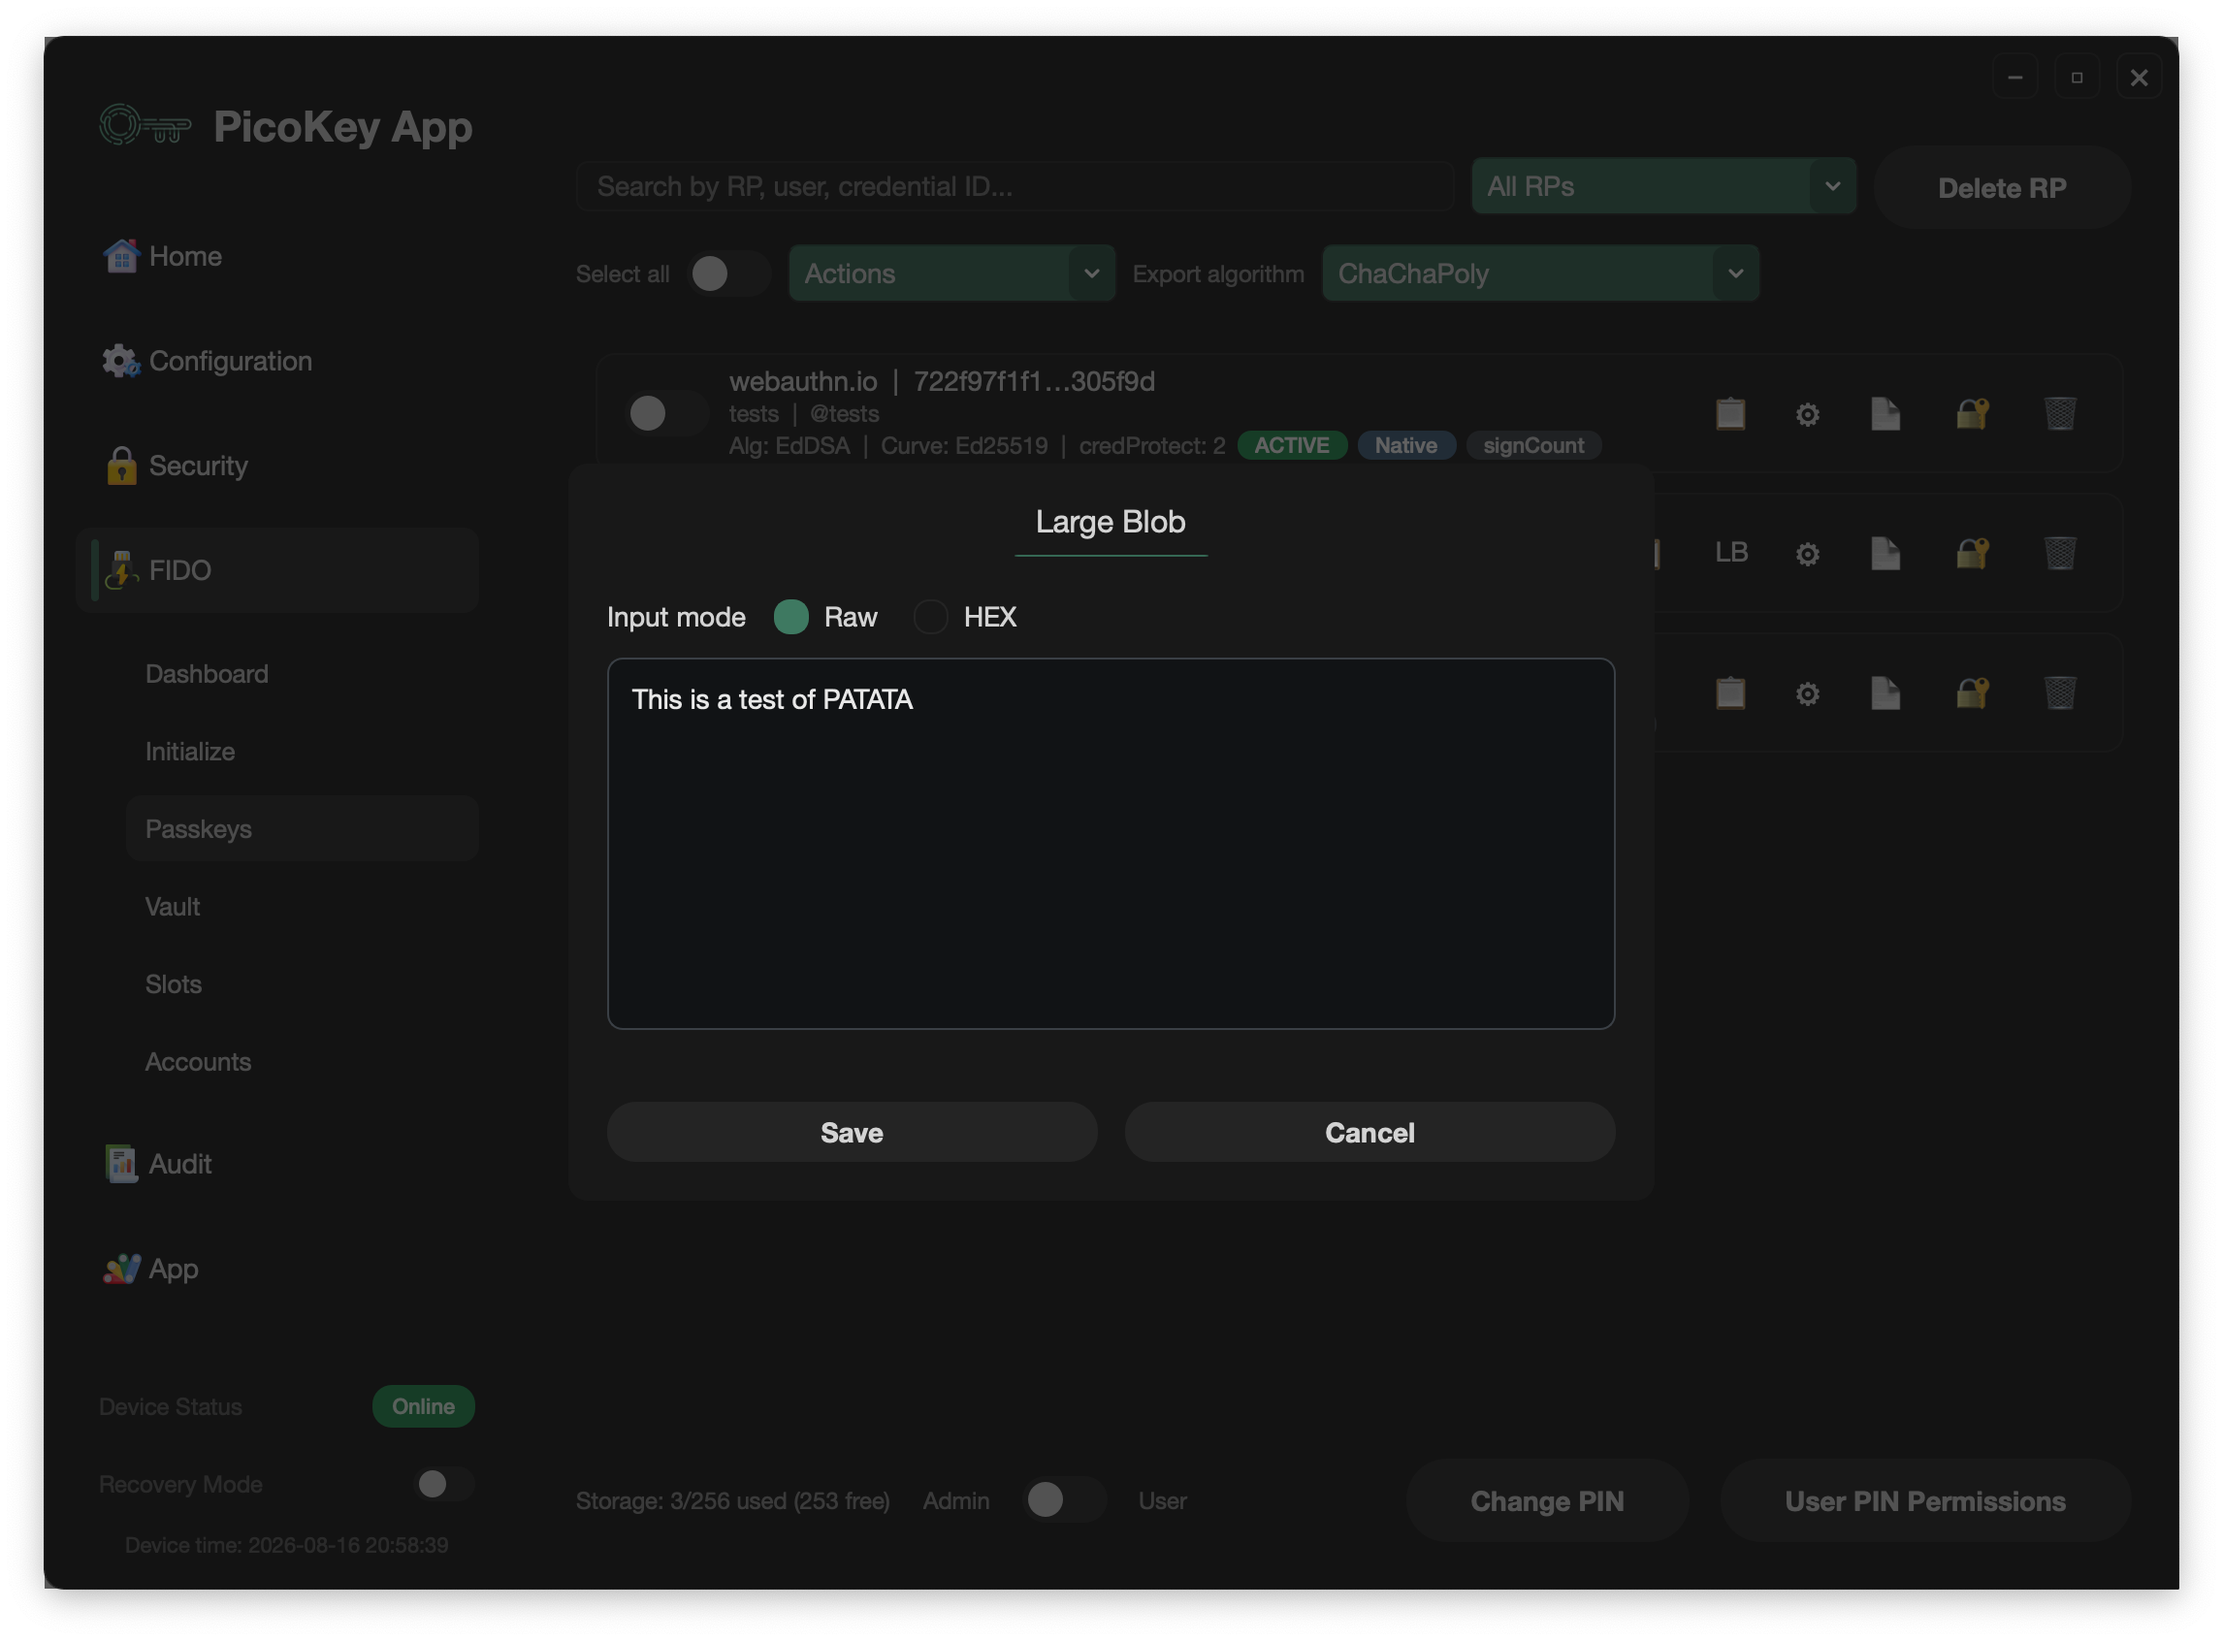
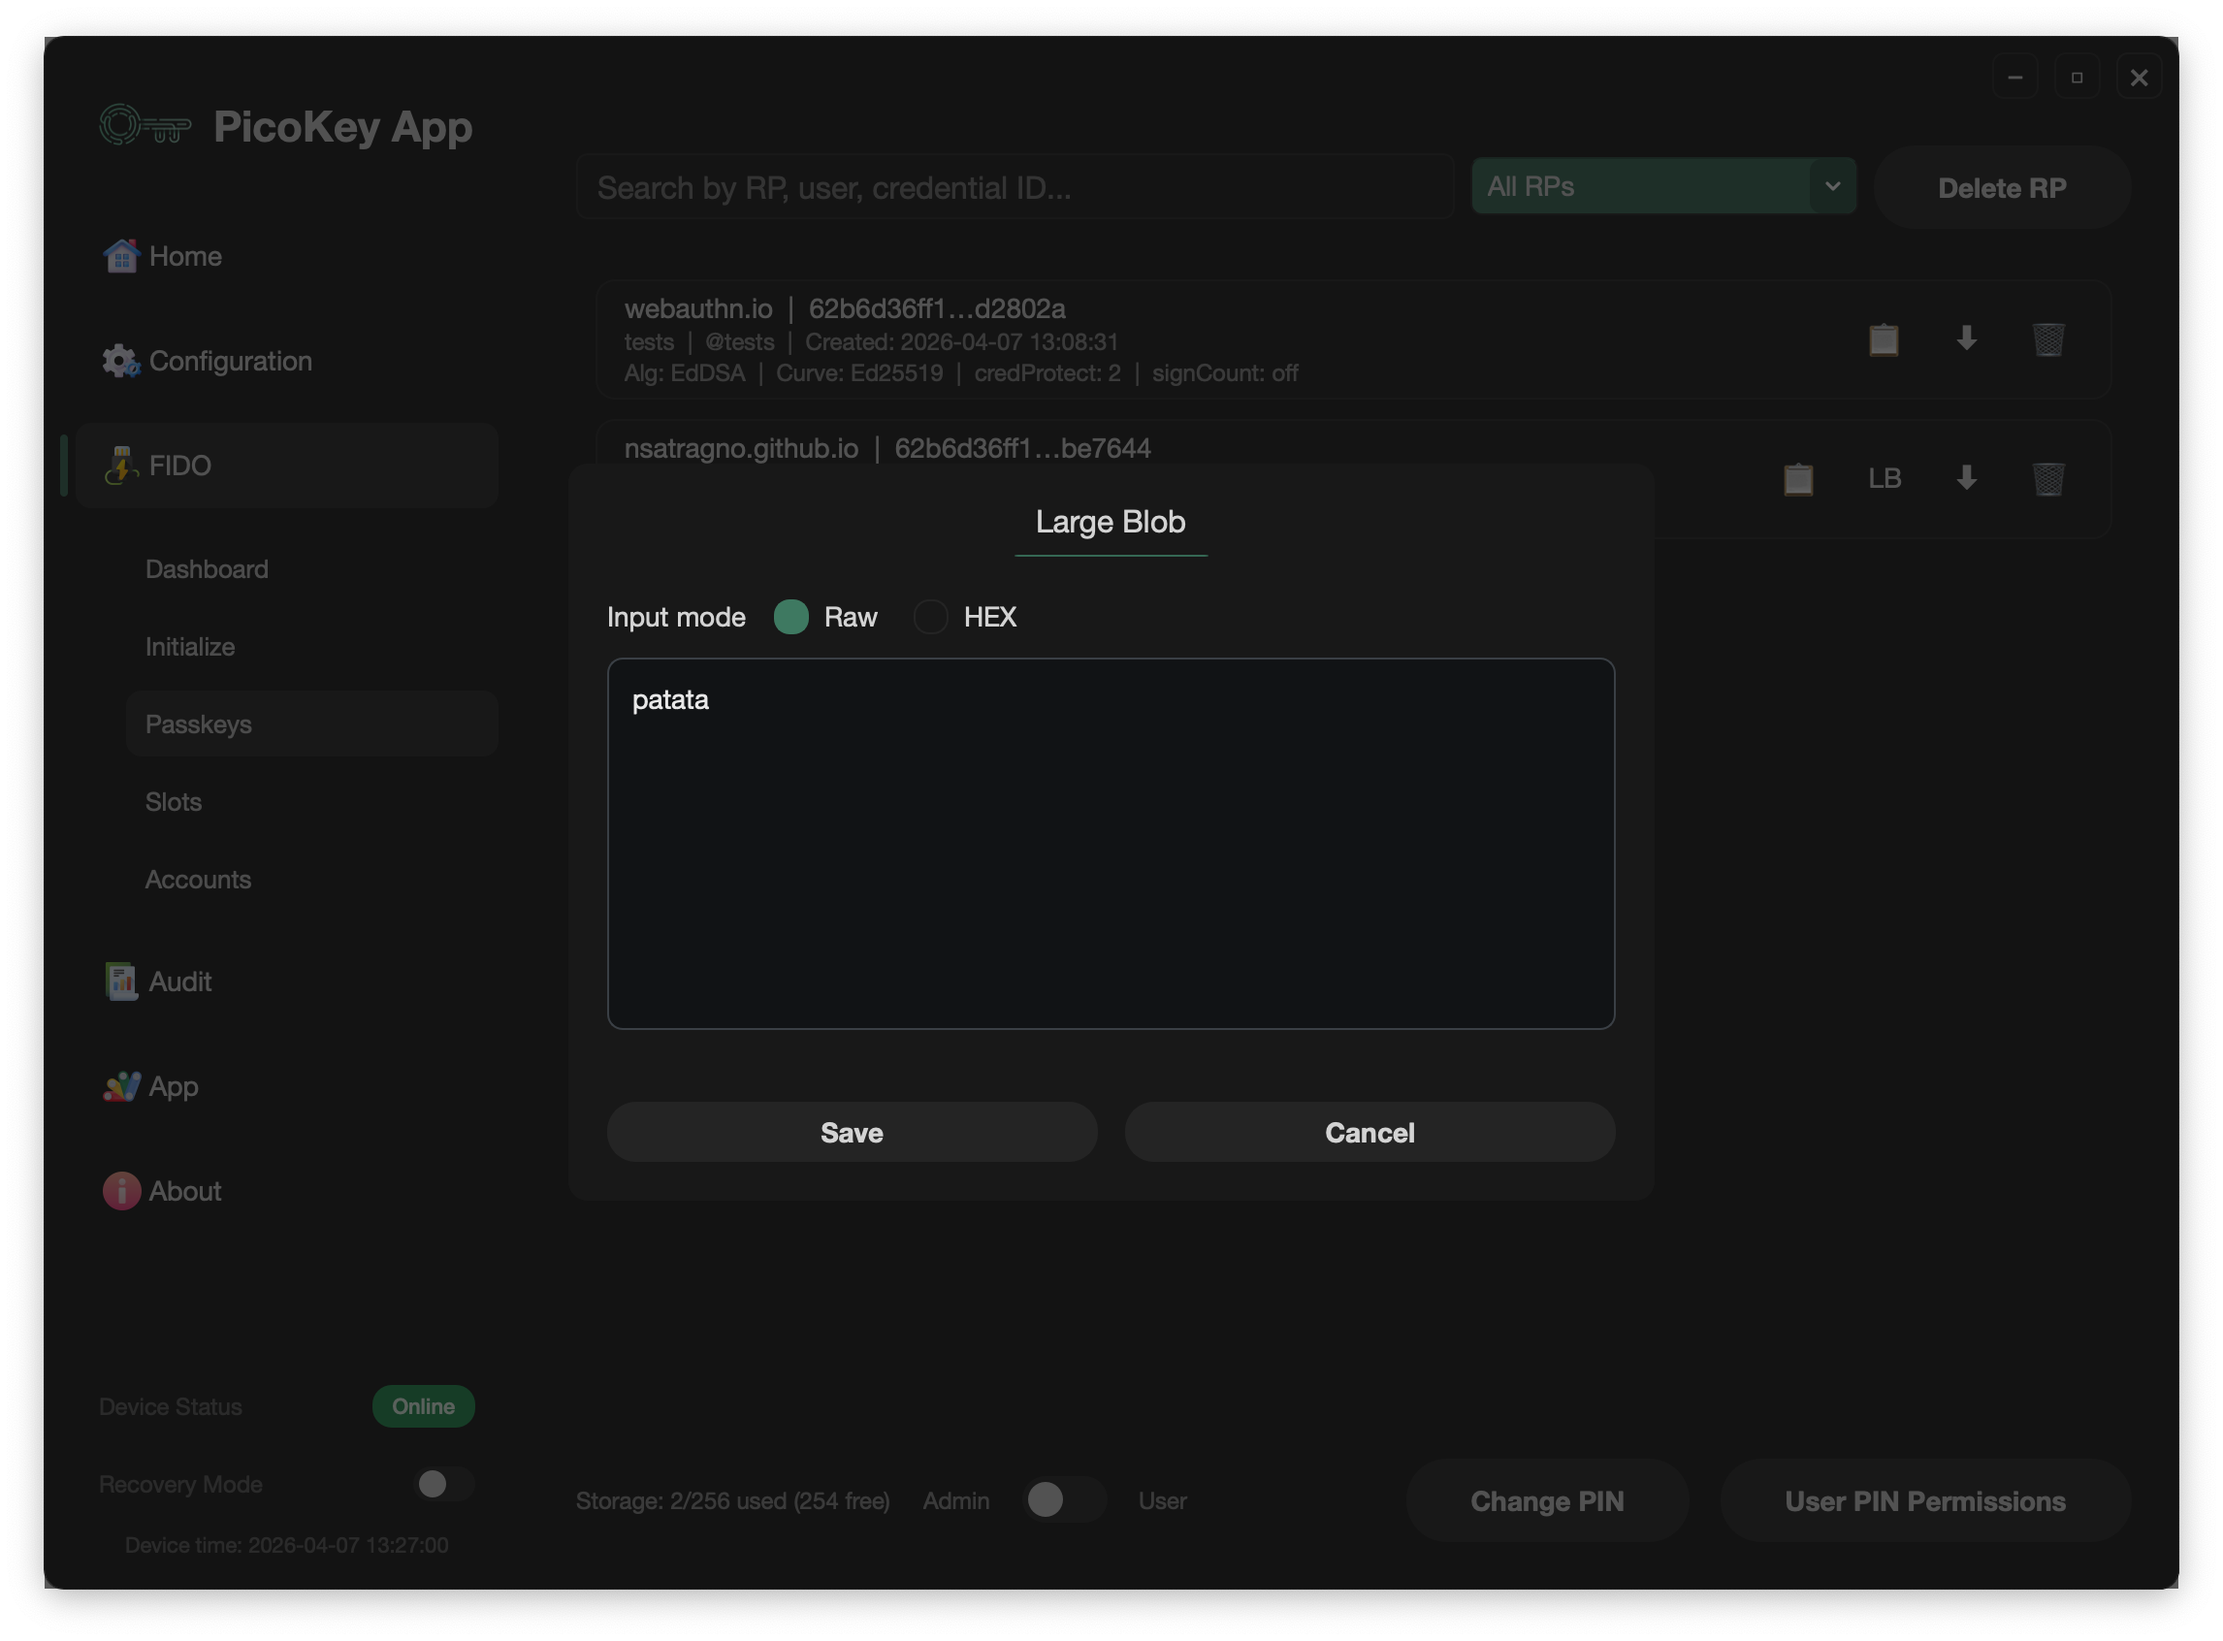
Add individual passkeys lifecycle

diff --git a/docs/picokeyapp/fido/passkeys.md b/docs/picokeyapp/fido/passkeys.md
@@ -34,6 +34,26 @@ user information, and credential ID. They are separate from **Export
 Credential**, which creates an opaque Vault package. Revoked credentials
 cannot be changed.
 
+![Manage Credential dialog](../../assets/images/picokeyapp/fido/expiration.png)
+
+## Individual credential lifecycle
+
+The gear opens the **Manage Credential** dialog for that specific credential.
+
+- **Set expiration** stores an optional expiration date and time. The board
+  requires a configured RTC to set this value. When the RTC reaches the
+  expiration time, the credential becomes `EXPIRED` and Pico FIDO rejects
+  assertions for it.
+- **Revoke** immediately marks the credential as `REVOKED` and prevents it
+  from being used for assertions.
+
+Expired and revoked credentials remain listed so their status can be audited;
+they are not deleted automatically. The operation applies only to the
+selected credential, so other credentials on the board remain unaffected.
+Neither operation removes the corresponding registration at a relying party,
+and the current firmware does not provide a way to reactivate an expired or
+revoked credential.
+
 ![Large Blob management](../../assets/images/picokeyapp/fido/largeblobs.png)
 
 ---
